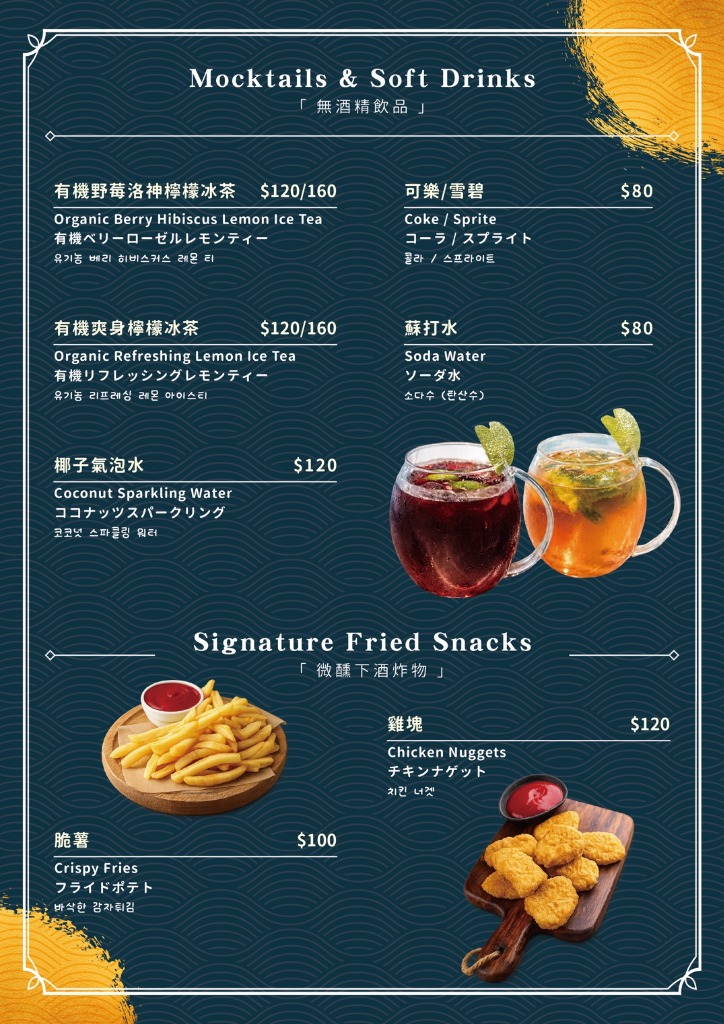
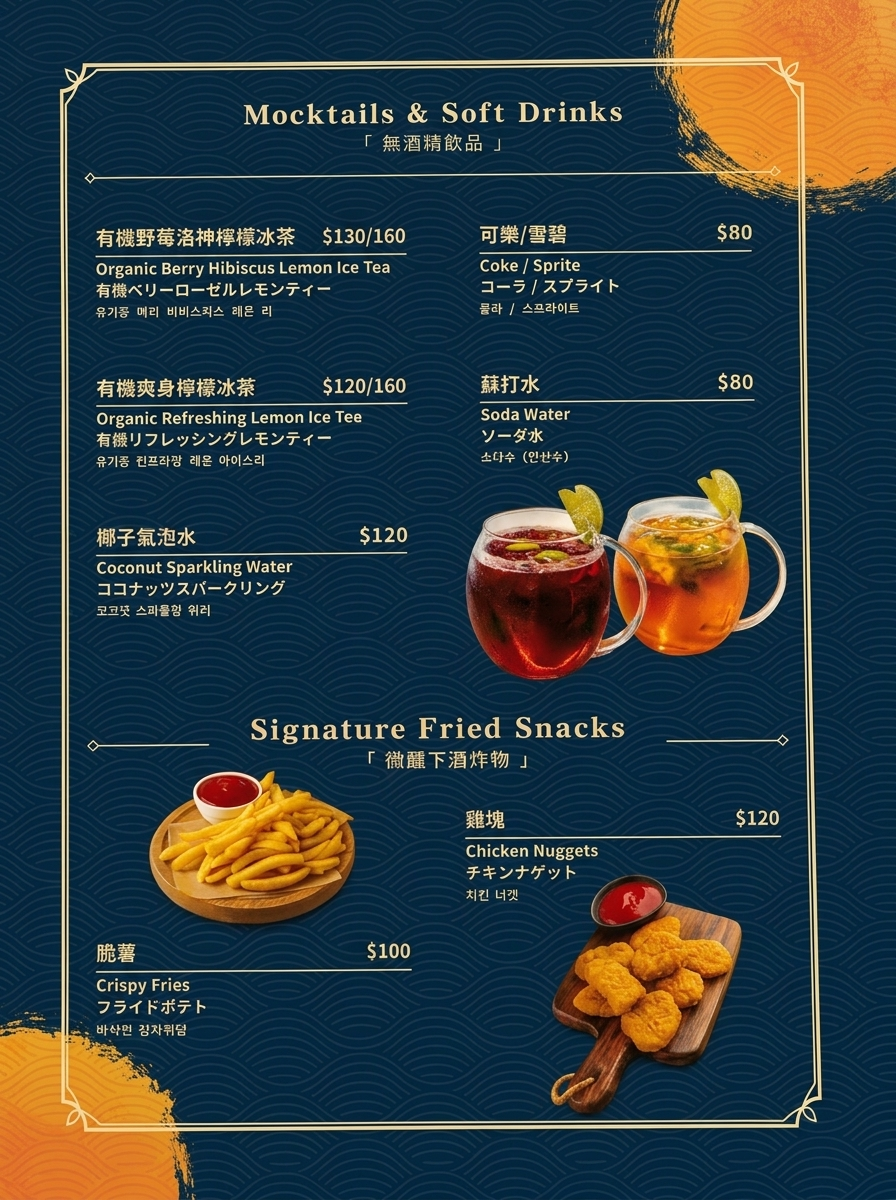
feat(menu): update page 2 Organic Berry Hibiscus Lemon Ice Tea price from 20 to 30 with clean seamless menu graphic

diff --git a/preview.html b/preview.html
@@ -194,7 +194,7 @@
             {
                 file: "assets/menu_p2.jpg",
                 title: "🧃 第 2 頁：無酒精特調飲品 & 微醺下酒炸物",
-                desc: "有機野莓洛神檸檬冰茶 ($120/$160)、有機爽身檸檬冰茶 ($120/$160)、椰子氣泡水 ($120)、可樂/雪碧 ($80)、蘇打水 ($80) ｜ 香脆薯條 ($100)、香酥雞塊 ($120)"
+                desc: "有機野莓洛神檸檬冰茶 ($130/$160)、有機爽身檸檬冰茶 ($120/$160)、椰子氣泡水 ($120)、可樂/雪碧 ($80)、蘇打水 ($80) ｜ 香脆薯條 ($100)、香酥雞塊 ($120)"
             },
             {
                 file: "assets/menu_p3.jpg",

diff --git a/menu_viewer.py b/menu_viewer.py
@@ -29,7 +29,7 @@ MENU_PAGES = [
         "title": "🧃 第 2 頁：無酒精特調飲品 & 微醺下酒炸物",
         "tab_name": "🧃 2. 無酒精 & 炸物",
         "file": "menu_p2.jpg",
-        "desc": "有機野莓洛神檸檬冰茶 ($120/$160)、有機爽身檸檬冰茶 ($120/$160)、椰子氣泡水 ($120)、可樂/雪碧 ($80)、蘇打水 ($80) ｜ 香脆薯條 ($100)、香酥雞塊 ($120)"
+        "desc": "有機野莓洛神檸檬冰茶 ($130/$160)、有機爽身檸檬冰茶 ($120/$160)、椰子氣泡水 ($120)、可樂/雪碧 ($80)、蘇打水 ($80) ｜ 香脆薯條 ($100)、香酥雞塊 ($120)"
     },
     {
         "id": "p3",

diff --git a/db.py b/db.py
@@ -69,7 +69,7 @@ OFFICIAL_MENU_ITEMS = [
     ("雞塊 (香酥雞塊)", "微醺下酒炸物", 35.0, 120.0, 160),
 
     # 8. 無酒精飲品
-    ("有機野莓洛神檸檬冰茶", "無酒精茶飲", 35.0, 120.0, 85),
+    ("有機野莓洛神檸檬冰茶", "無酒精茶飲", 35.0, 130.0, 85),
     ("有機爽身檸檬冰茶", "無酒精茶飲", 35.0, 120.0, 90),
     ("椰子氣泡水", "無酒精茶飲", 38.0, 120.0, 70),
     ("可樂 / 雪碧", "無酒精茶飲", 20.0, 80.0, 110),
